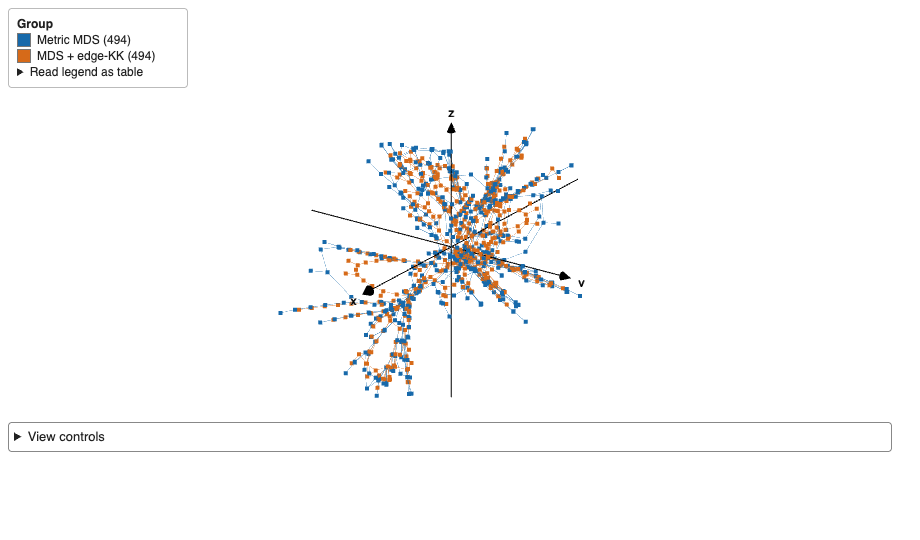
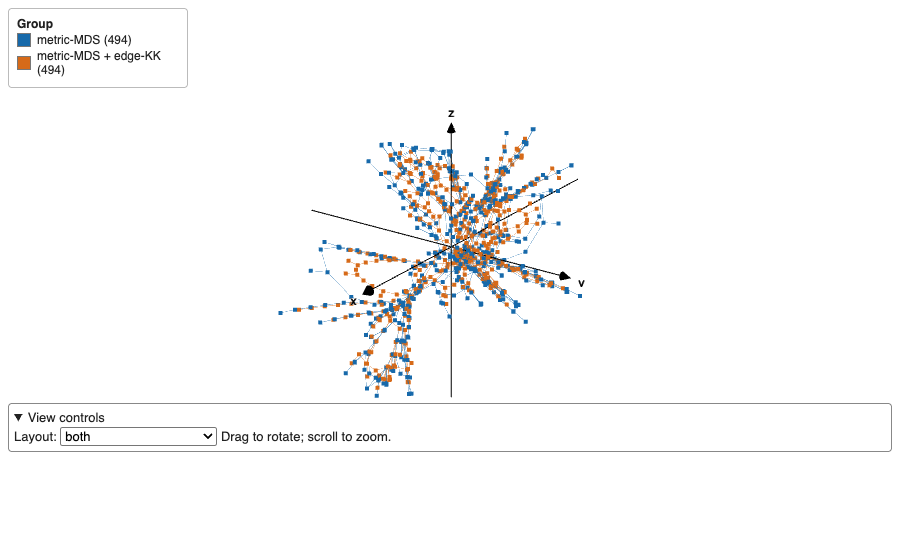
Simplify vignette graph views with a layout selector

Changed region(s): [[0.0, 0.7407, 0.4261, 0.8296], [0.0, 0.0593, 0.1826, 0.1481]]

diff --git a/tools/README.md b/tools/README.md
@@ -55,6 +55,10 @@ The fitter needs `callr`; rendering needs `ivue`, `rgl`, `htmltools`,
 `htmlwidgets`, and Pandoc. The shared capture script needs Playwright and Chromium;
 `PLAYWRIGHT_MODULE` and `CHROMIUM_EXECUTABLE` can locate them. Review the layouts
 and scores before replacing `inst/extdata/graph-examples/layouts.rds` and its
-images. Each graph runs in a separate process with a 180-second limit, and
-failures are saved while later graphs continue. Edge-KK failures retain the
+images. Rendering uses the saved layouts without refitting. Each interactive view
+has a selector for metric-MDS, metric-MDS + edge-KK, or both; captures show both.
+The capture script checks visibility, fixed camera and coordinates, rotation,
+and the absence of legend tables. Use a fresh render directory to avoid
+capturing obsolete figures. Each graph runs in a separate process with a
+180-second limit, and failures are saved while later graphs continue. Edge-KK failures retain the
 completed MDS layout. Settings and all MDS start summaries are retained.

diff --git a/NEWS.md b/NEWS.md
@@ -21,6 +21,9 @@
 
 ## Documentation
 
+* Simplified the graph gallery to one interactive view per graph, with a
+  layout selector for metric-MDS, metric-MDS + edge-KK, or both. Removed
+  duplicate static panels and the legend-table disclosure from vignette views.
 * Expanded the installed "Graph examples" vignette with interactive 3D
   metric-MDS and edge-KK views of 13 graphs. Added six attributed SuiteSparse
   datasets as `zheng.graphs`, including original matrices and character labels.
